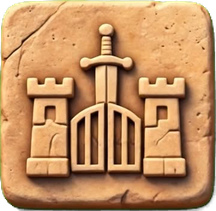
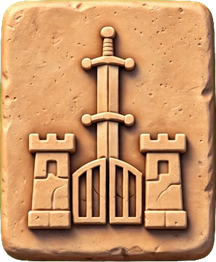
Hall of the Tribes: Glen's cracked and broken tablet frames for nine tribes
Claude-Session: https://claude.ai/code/session_018JCxWJ972csv1aoHy7ivxa

diff --git a/game/nobgath.js b/game/nobgath.js
@@ -50,7 +50,10 @@ const R3 = {
   // (Glen 11-11) the Hall of the Tribes, off Nob: his twelve tablets set in the floor, out of order. Walk them in the
   //  order Jacob blessed his sons (Genesis 49:3-27): the blessing's words show at the top, find the picture. A right
   //  one glows and stays safe; a wrong one cracks and drops him back to the door (time, not a heart)
-  TRIBES: { AT: 10, STEP: 6, W: 3, SHAKE: 0.22, PROUD: 6,   // (Glen 11-11: SHAKE, held on a wrong one this long, then down with it)
+  TRIBES: { AT: 10, STEP: 6, W: 3, SHAKE: 0.35, PROUD: 6, PAD: 16,
+    // (Glen's Meta frames, cut_tribe_crumble.py: _c1 cracked, _c2 broken; the rest break in drawn pieces till theirs come)
+    C1: ["asher", "dan", "gad", "issachar", "joseph", "levi", "reuben", "simeon"],
+    C2: ["asher", "dan", "gad", "issachar", "joseph", "levi", "naphtali", "reuben", "simeon"],   // (Glen 11-11: SHAKE, held on a wrong one this long, then down with it)
     FLOOR: ["judah", "gad", "reuben", "joseph", "levi", "asher", "dan", "zebulun", "benjamin", "simeon", "naphtali", "issachar"] },   // (left to right)
   TABLE_K: 0.6,      // the holy bread table (w3_holy_bread_table2 is 611 x 130 at 1)
 };
@@ -198,7 +201,7 @@ function r3Build(R) {
     rKitDoor("d_tribesout", "tribes", c + 3, "door", "d_nobtribes", "hall_door");
     r3.trial = { start: (c + 6) * T, next: done ? 12 : 0, tiles: K.FLOOR.map((name, i) => {
       const tc = c + K.AT + i * K.STEP; pitFloor(tc, K.W); platAt(tc, GR * T, K.W);
-      kitImg("w3_tribe_" + name);   // (asked for now, so it's there when he walks in)
+      kitImg("w3_tribe_" + name); for (const c of ["C1", "C2"]) if (K[c].includes(name)) kitImg("w3_tribe_" + name + "_" + c.toLowerCase());   // (asked for now, so they're there when he walks in; Glen's cracked and broken frames, cut_tribe_crumble.py)
       return { name, c: tc, x0: tc * T, x1: (tc + K.W) * T, lit: done, glow: 0, crack: 0, open: false, fall: 0 };
     }) };
     rRelic("r3_truth_tribes", "truth", c + tr.w - 12, 16, "All these are the twelve tribes of Israel, and this is what their father spoke to them, and blessed them. (Genesis 49:28)", "r3_tribes");
@@ -398,7 +401,11 @@ function r3TrialDraw(camX) {
       ctx.lineTo(x + w + 8, H); ctx.closePath(); ctx.fill();
       ctx.fillStyle = "rgba(90,64,40,0.9)";   // the broken stone lips, either side
       for (const s of [-1, 1]) { const ex = s < 0 ? x - 8 : x + w + 8; ctx.beginPath(); ctx.moveTo(ex, GR * T - 2); ctx.lineTo(ex - s * 16, GR * T + 4 + t.jag[s < 0 ? 1 : 9] * 10); ctx.lineTo(ex, GR * T + 26); ctx.closePath(); ctx.fill(); }
-      if (im && t.pieces && t.fall < 1.1) {
+      const c2 = K.C2.includes(t.name) && kitImg("w3_tribe_" + t.name + "_c2");
+      if (c2 && c2.naturalWidth && t.fall < 1.0) {   // (Glen's broken frame, dropping away)
+        ctx.save(); ctx.globalAlpha = Math.max(0, 1 - t.fall / 1.0);
+        const s = w / 216; ctx.drawImage(c2, Math.round(x - K.PAD * s), GR * T - K.PROUD - K.PAD * s + t.fall * t.fall * 1000, c2.naturalWidth * s, c2.naturalHeight * s); ctx.restore();   // (the kit is at 216 a tablet)
+      } else if (im && t.pieces && t.fall < 1.1 && !(c2 && c2.naturalWidth)) {
         const pw = im.width / 3, ph = im.height / 2, sw = (w - 12) / 3, sh = sw * ph / pw;
         for (const p of t.pieces) { const f = Math.max(0, t.fall - p.late);
           ctx.save(); ctx.globalAlpha = Math.max(0, 1 - f / 1.0);
@@ -409,7 +416,9 @@ function r3TrialDraw(camX) {
     }
     if (!im) continue;
     const j = t.crack > 0 ? (Math.random() - 0.5) * 6 : 0, h = w * im.height / im.width;
-    ctx.drawImage(im, Math.round(x + j), GR * T - K.PROUD, w, h);
+    const c1 = t.crack > 0 && K.C1.includes(t.name) && kitImg("w3_tribe_" + t.name + "_c1");
+    if (c1 && c1.naturalWidth) { const s = w / 216; ctx.drawImage(c1, Math.round(x + j - K.PAD * s), GR * T - K.PROUD - K.PAD * s, c1.naturalWidth * s, c1.naturalHeight * s); }   // (Glen's cracked frame)
+    else ctx.drawImage(im, Math.round(x + j), GR * T - K.PROUD, w, h);
     if (t.lit) {   // the blessing on it: gold
       ctx.save(); ctx.globalCompositeOperation = "lighter"; ctx.fillStyle = `rgba(255,190,70,${0.32 + Math.min(1, t.glow) * 0.3})`;
       ctx.beginPath(); ctx.roundRect(x + 3, GR * T - K.PROUD + 3, w - 6, h - 6, 10); ctx.fill(); ctx.restore();

diff --git a/tools/tests/w3crumble2.js b/tools/tests/w3crumble2.js
@@ -1,0 +1,13 @@
+// (Glen 11-11) his cracked and broken frames: Gad (tent) cracking, then broken and dropping
+if (location.hash !== "#9-7") throw new Error("not in World 3");
+startSetup = () => {}; setup.active = false;
+for (const n of ["gad", "levi", "asher", "dan"]) { kitImg("w3_tribe_" + n + "_c1"); kitImg("w3_tribe_" + n + "_c2"); }
+const tile = n => r3.trial.tiles.find(t => t.name === n);
+testRun([
+  { n: 3, fn() { r3.trial.next = 0; r3.trial.tiles.forEach(t => t.lit = false); } },
+  { keys: [], n: 40 },
+  { n: 2, fn() { const t = tile("gad"); moveParty((t.x0 + t.x1) / 2, GR * T); snapCamera(); } },
+  { keys: [], n: 8, snap: true },
+  { keys: [], n: 8, snap: true },
+  { keys: [], n: 4, snap: true },
+]);

diff --git a/tools/cut_tribe_crumble.py b/tools/cut_tribe_crumble.py
@@ -1,0 +1,48 @@
+"""(Glen 11-11) the Hall of the Tribes' tablets breaking: his Meta sheets (david-sling-2-art/w3/tribes_crumble/<tribe>.png),
+three frames left to right: whole, cracked, broken apart. Keys out the green, splits at the emptiest columns between
+the frames, and writes each frame at the size of the game's tablets (the whole tablet's width -> 216 px), all three
+on one canvas so they line up: the tablet's top-left in the same place in each.
+  w3_tribe_<name>.png (whole: replaces the old one), w3_tribe_<name>_c1.png (cracked), w3_tribe_<name>_c2.png (broken)
+python tools/cut_tribe_crumble.py
+"""
+import os, glob
+import numpy as np
+from PIL import Image
+
+ART = os.path.join(os.path.expanduser("~"), "Desktop", "david-sling-2-art", "w3", "tribes_crumble")
+OUT = os.path.join(os.path.dirname(__file__), "..", "assets", "rooms", "w3", "kit")
+TW = 216   # the tablet's width in the game
+PAD = 16   # game px of room left and above the tablet's corner in the _c1/_c2 frames (nobgath.js R3.TRIBES.PAD)
+
+
+def key(a):
+    a = a.astype(float); r, g, b = a[..., 0], a[..., 1], a[..., 2]
+    alpha = np.clip((70 - (g - np.maximum(r, b))) / 50, 0, 1)
+    a2 = a.copy(); a2[..., 1] = np.minimum(g, np.maximum(r, b) + 8)
+    return np.dstack([a2, alpha * 255]).clip(0, 255).astype(np.uint8)
+
+
+for path in sorted(glob.glob(os.path.join(ART, "*.png"))):
+    name = os.path.basename(path)[:-4]
+    if "_" in name: continue   # (a spare: levi_9stones)
+    rgba = key(np.asarray(Image.open(path).convert("RGB")))
+    occ = (rgba[..., 3] > 40).sum(0); Wd = rgba.shape[1]
+    cut = lambda lo, hi: lo + int(np.argmin(occ[lo:hi]))
+    s1, s2 = cut(int(Wd * 0.28), int(Wd * 0.38)), cut(int(Wd * 0.61), int(Wd * 0.70))
+    frames = [rgba[:, a:b] for a, b in ((0, s1), (s1, s2), (s2, Wd))]
+    # the whole tablet: its box sets the scale and the anchor (top-left) for all three
+    m = frames[0][..., 3] > 40; ys, xs = np.where(m); x0, y0, x1 = xs.min(), ys.min(), xs.max()
+    k = TW / (x1 - x0 + 1)
+    # each frame: line its tablet up by its own top-left of the main body (the column-median edge), then crop a shared box
+    outs = []
+    for i, f in enumerate(frames):
+        a = f[..., 3] > 40; rows = a.sum(1); cols = a.sum(0)
+        fy0 = int(np.argmax(rows > rows.max() * 0.5)); fx0 = int(np.argmax(cols > cols.max() * 0.5))
+        ox, oy = fx0, fy0   # (this frame's tablet corner)
+        p = round(PAD / k)
+        im = Image.fromarray(f).crop((ox - p, oy - p, ox - p + int((x1 - x0) * 1.35), oy - p + int(f.shape[0] - y0)))
+        outs.append(im.resize((round(im.width * k), round(im.height * k)), Image.LANCZOS))
+    whole = Image.fromarray(frames[0]).crop((x0, y0, x1 + 1, ys.max() + 1)); whole = whole.resize((TW, round(whole.height * k)), Image.LANCZOS)
+    whole.save(os.path.join(OUT, f"w3_tribe_{name}.png"), optimize=True)
+    for i in (1, 2): outs[i].save(os.path.join(OUT, f"w3_tribe_{name}_c{i}.png"), optimize=True)
+    print(name, "cuts", s1, s2, "whole", whole.size, "frames", outs[1].size)

diff --git a/SESSION_2026-11-11.md b/SESSION_2026-11-11.md
@@ -88,3 +88,4 @@ level's opening at the end of making Part One ("they turned out great"). Not now
 - Reward: rRelic "r3_hall_key" (kind key, own text; region.js takeRelic uses f.text). Goliath's sword needs it (r3Tell "swordlock" points to the hall). Test w3crumble.js, w3swordlock.js.
 - Sent Glen david-sling-2-art/w3/for_meta_tribes (12 tablets, sheet on green, floor.jpg 2720x124, screenshot) for Meta crumble sprites and pit edges.
 - Glen's idea, not done: the hall bigger / going up (watchtower or library). Waiting on his art.
+- Glen's Meta crumble sheets (david-sling-2-art/w3/tribes_crumble, 3 frames each) -> tools/cut_tribe_crumble.py -> w3_tribe_<n>.png (whole, replaced) + _c1 (cracked) + _c2 (broken), PAD 16 at 216/tablet. R3.TRIBES.C1/C2 list who has them; Levi now the 12-stone one (9-stone kept as levi_9stones). Still to come: benjamin, judah, zebulun; naphtali's cracked frame (his has a snake on it). Test w3crumble2.js.
